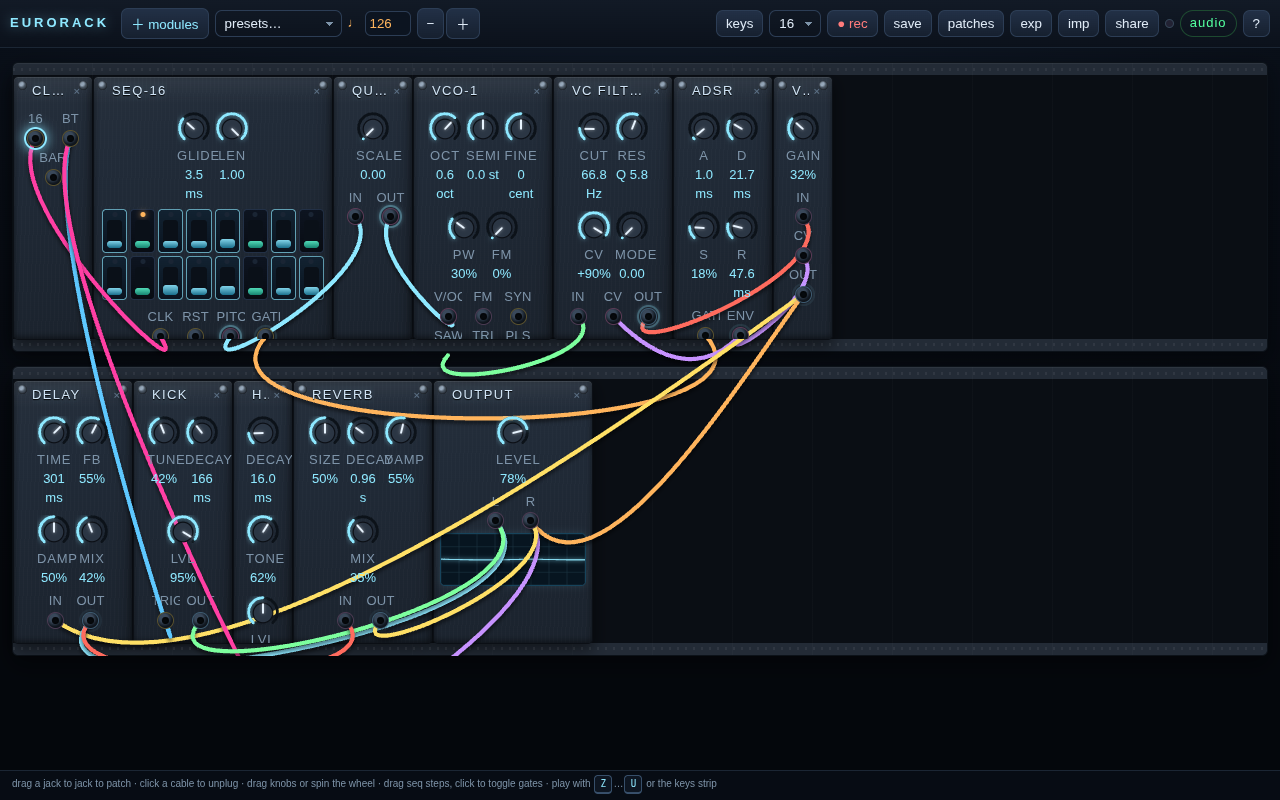
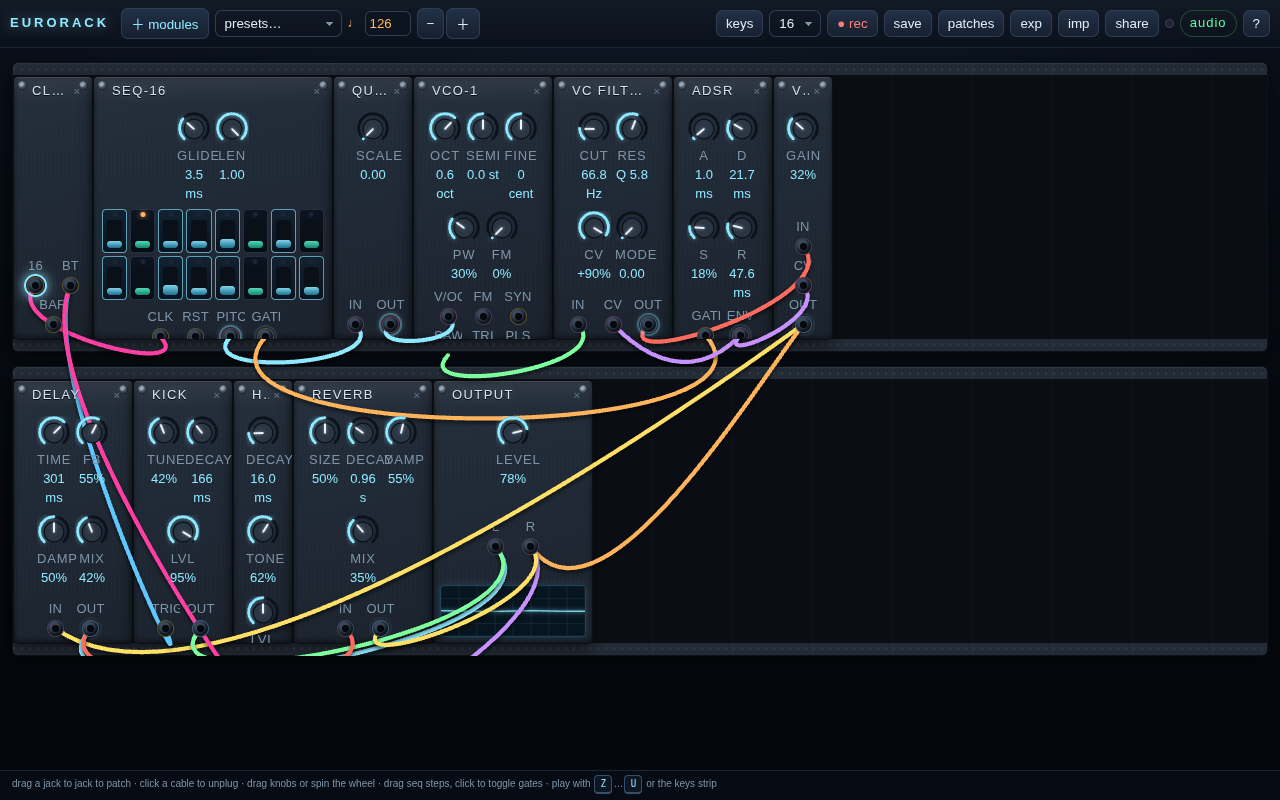
ST-5: review round 4 — the reviewer ran mutation tests, and the proofs flinched
Read the review honestly: I had claimed a telemetry proof (no check() in it —
stubbing the telemetry callback out still reported ok:true), claimed reach was
fine (seven jacks, HAT OUT included, clipped past the panel edge and
unpatchable by mouse in two shipped presets), claimed phone fit (half the
knobs covered by overlapping panels at 390 px), and left the drone presets
with no mid-band gate at all (push Ambient's VCOs subsonic: green). Every one
of those is now caught by a mutation I ran myself before believing the check.

- telemetry step: wipes the scope canvases, LED styles and diff caches first,
  then must see fresh pixels/lamps/LEDs from live telemetry; asserts the
  AudioContext was actually running and the worklet never faulted
- reach probe: every knob and jack of all five presets (66-77 controls each)
  scrollIntoView'd and hit-tested by the browser itself; an ancestor answering
  for a clipped child is a failure (accepting it was the first probe's hole);
  reports how many elements it examined so an empty selector cannot pass
  vacuously; same probe on the phone profile
- panels are flex columns now with the jack row pinned bottom: jack rows fit
  inside the 3U row instead of hanging past it (this is what actually made
  reach green at ROW_H 264 — verified, not assumed)
- rack keeps its 96-HP physical width on phones (min-width: calc(var(--hpw) *
  96)) instead of collapsing min-width:0 and drowning controls in each other
[…]

Changed region(s): [[0.0, 0.1562, 0.6562, 0.8438], [0.1875, 0.25, 0.3438, 0.4688]]

diff --git a/eurorack/js/rack.js b/eurorack/js/rack.js
@@ -129,6 +129,7 @@ export class Rack {
     patch.modules.sort((a, b) => (a.row ?? 0) - (b.row ?? 0) || (a.col ?? 0) - (b.col ?? 0));
     this.content.querySelectorAll(".rail").forEach((r) => r.remove());
     this.jackEls.clear(); this.outJackEls = []; this.seqEls.clear(); this.cableEls.clear();
+    this._lastLv = null; if (this._seqCur) this._seqCur = new Map();   // diff caches refer to replaced elements — stale cache = dark LEDs
     const rows = Math.max(2, ...patch.modules.map((m) => (m.row ?? 0) + 1));
     for (let r = 0; r < rows; r++) {
       const rail = el("rail", this.content);
@@ -341,6 +342,7 @@ export class Rack {
     };
     window.addEventListener("pointermove", move);
     window.addEventListener("pointerup", up);
+    window.addEventListener("pointercancel", up);
     window.addEventListener("pointercancel", cancel);
   }
 
@@ -403,9 +405,20 @@ export class Rack {
       panel.style.top = `${ev.clientY - 18}px`;
       panel.style.zIndex = 50;
     };
-    const up = () => {
+    const up = (ev) => {
+      if (ev && ev.type === "pointercancel") {                      // interrupted touch: put the panel back, don't strand it
+        panel.style.position = ""; panel.style.left = ""; panel.style.top = ""; panel.style.zIndex = "";
+        panel.style.pointerEvents = "";
+        panel.classList.remove("drag");
+        window.removeEventListener("pointermove", move);
+        window.removeEventListener("pointerup", up);
+        window.removeEventListener("pointercancel", up);
+        this.rebuild();
+        return;
+      }
       window.removeEventListener("pointermove", move);
       window.removeEventListener("pointerup", up);
+      window.removeEventListener("pointercancel", up);
       panel.style.pointerEvents = "";
       panel.classList.remove("drag");
       if (moved) {
@@ -449,7 +462,7 @@ export class Rack {
       // map by the worklet's own jack key: the UI may sort/rebuild panels in any
       // order, and a positional zip between two independently-ordered arrays is
       // how meters once started showing another jack's level after plain editing
-      const el_ = (k && k[i]) ? this.jackEls.get(k[i]) : this.outJackEls[i];
+      const el_ = k ? this.jackEls.get(k[i]) : null;   // no positional fallback: a meter mapped by guesswork is the bug we buried
       if (!el_) continue;
       const v = Math.min(1, lv[i] * 1.6);
       if (Math.abs(v - this._lastLv[i]) > 0.02) {          // style writes only on visible change

diff --git a/eurorack/eurorack.css b/eurorack/eurorack.css
@@ -82,7 +82,10 @@ body {
 /* ---------- rack ---------- */
 
 .rack-scroll { flex: 1; overflow: auto; padding: 14px 12px 90px; overscroll-behavior: contain; }
-#rackContent { position: relative; min-width: 700px; }
+/* the rack is a physical 96-HP strip: it keeps its full width and scrolls —
+   on a phone it must never squeeze modules into each other (that made half the
+   knobs and jacks unreachable on the one device this shelf is read from) */
+#rackContent { position: relative; min-width: calc(var(--hpw, 10px) * 96); }
 #cables { position: absolute; left: 0; top: 0; pointer-events: none; z-index: 25; }
 #cables .cable { fill: none; stroke-width: 4.2; stroke-linecap: round; filter: drop-shadow(0 3px 2px rgba(0,0,0,.55)); }
 #cables .cable.pending { stroke-dasharray: 8 5; opacity: .9; }
@@ -118,6 +121,7 @@ body {
   box-shadow: inset 0 1px 0 rgba(255,255,255,.09), inset 0 -2px 6px rgba(0,0,0,.5), 0 6px 16px rgba(0,0,0,.5);
   overflow: hidden;
   user-select: none; -webkit-user-select: none;
+  display: flex; flex-direction: column;
 }
 .panel.sel { outline: 1.5px solid rgba(142, 232, 255, .8); outline-offset: 1px; }
 .panel.drag { opacity: .85; transform: rotate(-1.2deg) scale(1.02); }
@@ -144,7 +148,7 @@ body {
   padding: 2px 4px; border-radius: 4px;
 }
 .px:hover { color: #ff7b7b; background: rgba(255,80,80,.12); }
-.pbody { padding: 2px 6px 6px; display: flex; flex-direction: column; gap: 4px; }
+.pbody { padding: 2px 6px 6px; flex: 1; min-height: 0; display: flex; flex-direction: column; gap: 4px; }
 .krow { display: flex; flex-wrap: wrap; gap: 2px 4px; justify-content: center; }
 .jrow { display: flex; flex-wrap: wrap; gap: 2px 5px; justify-content: center; margin-top: auto; }
 
@@ -327,7 +331,7 @@ kbd {
   .tb { padding: 4px 7px; font-size: 10.5px; }
   .brand { font-size: 11px; letter-spacing: 2px; }
   .rack-scroll { padding: 8px 6px 120px; }
-  #rackContent { min-width: 0; }
+  /* (was min-width: 0 — that let panels overlap instead of scrolling; see above) */
   .kbd { padding: 6px 6px 8px; }
   .key.wk { width: 26px; height: 62px; }
   .key.bk { width: 17px; height: 40px; margin-left: -9px; margin-right: -9px; }

diff --git a/eurorack/js/engine.js b/eurorack/js/engine.js
@@ -38,6 +38,11 @@ export class Engine {
 
   async start(patch) {
     if (this.ready) return;
+    if (this.ctx && this.ctx.state !== "closed") {        // a failed first start used to leave this orphaned
+      await this.ctx.resume().catch(() => {});
+      if (this.node) { this.ready = true; return; }
+      try { this.ctx.close(); } catch {}
+    }
     const Ctx = window.AudioContext || window.webkitAudioContext;
     this.ctx = new Ctx({ latencyHint: "interactive" });
     await this.ctx.audioWorklet.addModule(WORKLET_URL);
@@ -129,6 +134,7 @@ export class Engine {
     // every metric is two-channel: a preset patched entirely to R used to be
     // measured from the silent L — peak, rms, spectrum and onsets all said "quiet"
     let peak = 0, sum = 0, clipped = 0;
+    let sumL = 0, sumR = 0;
     let sLL = 0, sRR = 0, sLR = 0, meanL = 0, meanR = 0;
     for (let i = 0; i < left.length; i++) {
       const l = left[i], rr = right ? (right[i] ?? l) : l;
@@ -136,6 +142,7 @@ export class Engine {
       if (m > peak) peak = m;
       if (m > 0.985) clipped++;
       sum += m * m;
+      sumL += l * l; sumR += rr * rr;
       meanL += l; meanR += rr;
     }
     meanL /= left.length; meanR /= left.length;
@@ -145,7 +152,10 @@ export class Engine {
     }
     const denom = Math.sqrt(sLL * sRR);
     const corr = denom > 1e-12 ? sLR / denom : 1;   // 1.0 = dual mono
-    return { peak, rms: Math.sqrt(sum / left.length), clippedFrac: clipped / left.length, corr };
+    return {
+      peak, rms: Math.sqrt(sum / left.length), clippedFrac: clipped / left.length, corr,
+      rmsL: Math.sqrt(sumL / left.length), rmsR: Math.sqrt(sumR / left.length),   // per-channel floors: a silently-dead R passed for rounds
+    };
   }
 
   // Band energy of a rendered buffer: bass (<125 Hz) vs playable band (125 Hz–4 kHz).

diff --git a/eurorack/js/worklet.js b/eurorack/js/worklet.js
@@ -533,7 +533,8 @@
         if (m.t === "patch") this.build(m.patch);
         else if (m.t === "param") {
           const n = this.byId.get(m.m);
-          if (n && m.p in n.tp) { n.tp[m.p] = m.v; }
+          const v = m.v;
+          if (n && m.p in n.tp && Number.isFinite(v)) { n.tp[m.p] = v < 0 ? 0 : v > 1 ? 1 : v; }   // one NaN in a smoothing loop is permanent
         } else if (m.t === "bpm") { this.bpm = clamp(m.v, 30, 260); this._applyT16(); }
         else if (m.t === "note") {
           for (const n of this.nodes) if (n.type === "midicv") n.unit.noteEvent(m.on, m.note, m.vel ?? 100);

diff --git a/eurorack/js/defs.js b/eurorack/js/defs.js
@@ -6,7 +6,7 @@
 // each knob carries the display mapping used for its value readout.
 
 export const HPW = 10;            // CSS px per HP at zoom 1
-export const ROW_H = 264;         // panel height (a 3U-ish rail)
+export const ROW_H = 264;         // 3U-ish rail height; .panel flex packing keeps jack rows inside it
 export const RACK_HP = 96;        // usable width of one rail in HP
 
 // knob value formats: fmt(v) -> label; v stays 0..1 on the wire

diff --git a/eurorack/js/app.js b/eurorack/js/app.js
@@ -504,6 +504,7 @@ window.eurorack = {
   loadPatch: (p) => app.loadPatch(p),
   loadPreset: (name) => { const p = getPreset(name); return p ? app.loadPatch(p) : false; },
   addModule: (t) => app.addModule(t),
+  shareURL: () => shareURL(),
   addCable: (s, d) => app.addCable(s, d),
   removeCable: (id) => app.removeCable(id),
   presets: PRESET_NAMES,

diff --git a/eurorack/README.md b/eurorack/README.md
@@ -109,12 +109,20 @@ Chromium (software GL) and asserts, unmocked:
    says which mode each proof ran in (`"mouse"` / `"synthetic"`), so a silent
    downgrade is visible. Every named proof must report a positive result —
    a precondition scan returning null is a failure, not a skip;
-4. **the telemetry-driven UI works**: in the one step where telemetry painting
-   is not stubbed, the scope canvas must show trace pixels, jack clip LEDs
-   must light, and a sequencer step lamp must walk — scope/LED code with zero
-   coverage once passed green for three rounds;
-5. desktop, hero and phone screenshots are produced (in `shots/`, gitignored
-   except the two the hub card uses).
+4. **every control is hit-testable** — all 66–77 knobs and jacks of all five
+   presets on desktop, and 67 of them at 390×844 on the phone profile, after
+   the rack scrolls them into view (the probe wipes nothing, reports how many
+   elements it examined, and an ancestor answering for a clipped child is a
+   failure — the exact mutation that let round 4 find seven unpatchable jacks
+   must be caught; it is);
+5. **the telemetry-driven UI paints** — in one step the scope canvas, clip
+   LEDs and step lamps are wiped clean first, then must light up again from
+   live worklet telemetry alone (with the telemetry callback stubbed out,
+   this step fails — proven by mutation, not by hope);
+6. **a shared URL round-trips**: the compact base64 hash reparsed from
+   scratch yields the same patch, validates, and renders audible music;
+7. desktop, hero and phone screenshots are produced with the scope live
+   (in `shots/`, gitignored except the two the hub card uses).
 
 The harness self-heals: if Chromium dies mid-phase (this box runs SwiftShader
 while Strata holds the GPUs), the phase relaunches and retries once, and
